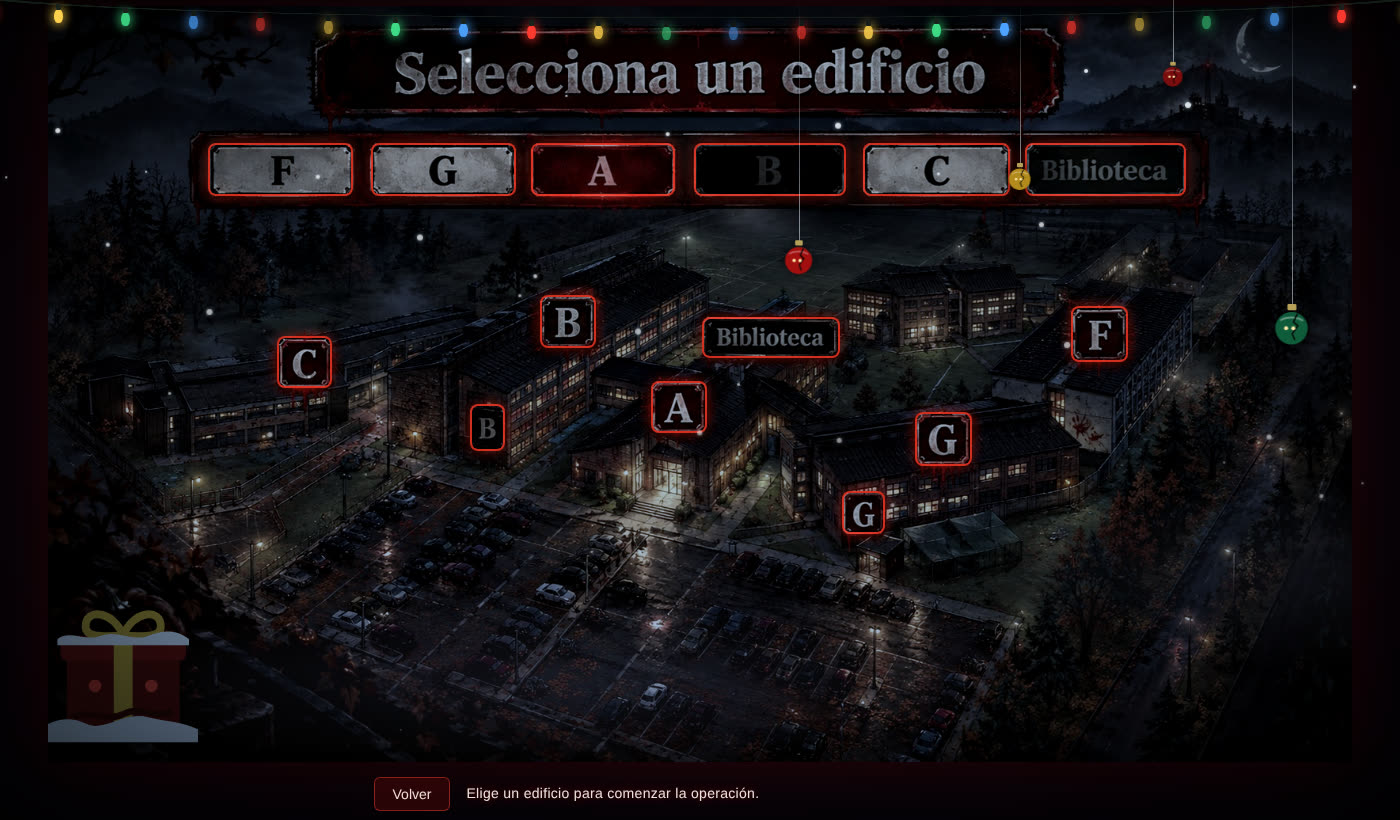
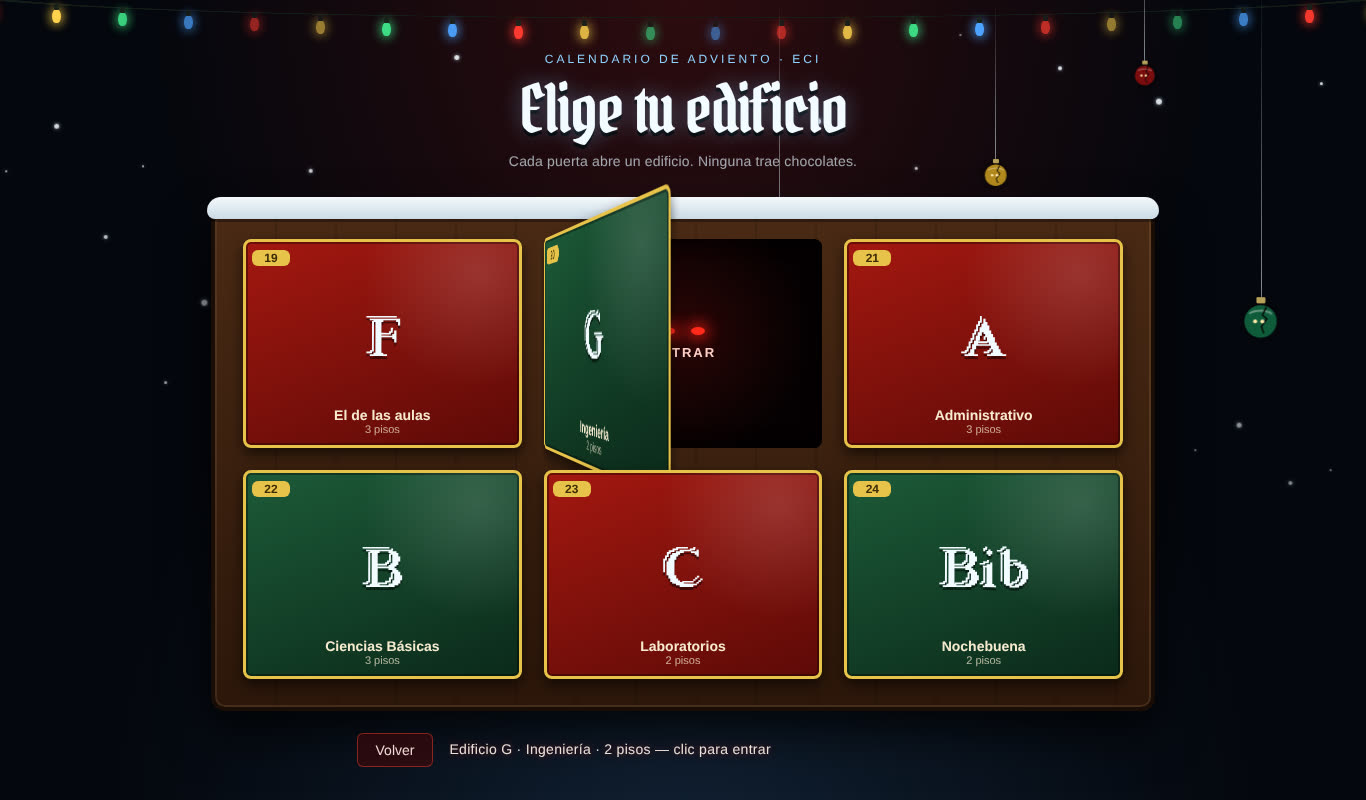
docs(temporadas): capturas de las pantallas redisenadas de Navidad

diff --git a/docs/temporadas/README.md b/docs/temporadas/README.md
@@ -54,16 +54,28 @@ menú (preferida, localStorage) ──crear sala──▶ /app/game/{código}/lo
 - **Criaturas:** donde Halloween tiene murciélagos y arañas, Navidad tiene copos de
   nieve y esferas rotas que bajan de su hilo con ojos adentro
   (`NavidadCreatures.jsx`).
-- **Ilustraciones:** la selección de edificio y la sala usan las mismas imágenes con
-  un velo helado. Las calabazas dibujadas quedan tapadas por un **regalo maldito** que
-  tiembla y parpadea (`RegaloMaldito.jsx`). En la sala, los ojos de la profesora
-  brillan en rojo.
+- **Pantallas propias de Navidad**, hechas con código (sin las ilustraciones de
+  Halloween, que siguen intactas en su evento):
+  - **Selección de edificio:** un **calendario de adviento maldito**. Cada edificio es
+    una puerta del 19 al 24 de diciembre; al pasar por encima se entreabre y adentro
+    asoman ojos rojos.
+  - **Sala de juego:** dos **cartas a Papá Noel** con sello de cera, una para crear la
+    sala y otra para unirse con el código, y un regalo que tiembla.
+  - **Elegir rol:** cada rol es una **caja de regalo** con lazo dorado que se destapa
+    al pasar por encima.
+  - **Sala de espera:** cada puesto ocupado se envuelve como regalo. El código brilla
+    entre azul helado y rojo.
+  - **Resultados:** panel frío con nieve acumulada encima.
 
 ![Selección de edificio](img/03-edificios-navidad.jpg)
+
+![Selección de edificio en celular](img/12-edificios-celular.jpg)
 
 ![Sala de juego](img/04-sala-navidad.jpg)
 
 ![Elegir rol](img/05-rol-navidad.jpg)
+
+![Sala de espera](img/11-espera-navidad.jpg)
 
 ### Intro animada
 
